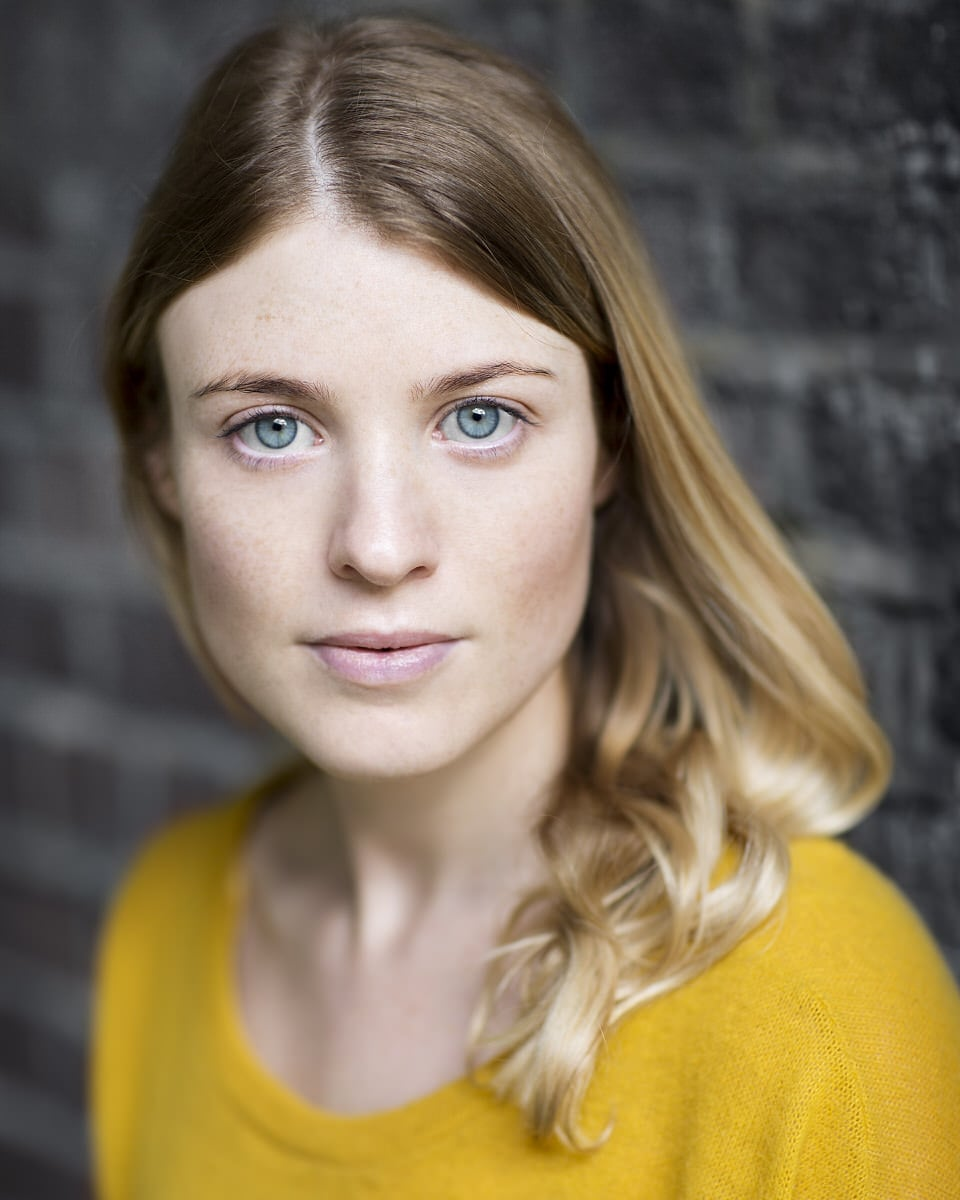
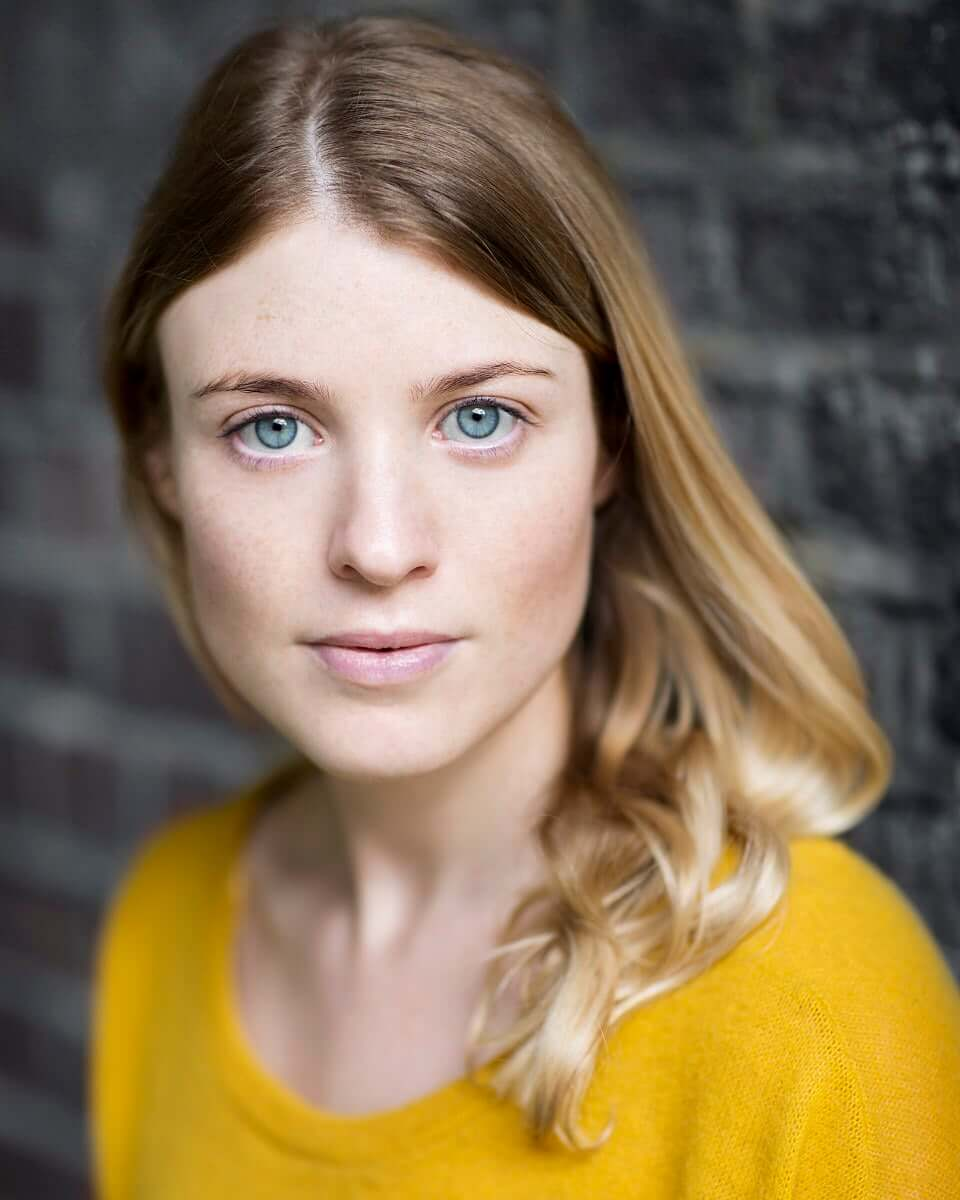
add audible link, recompress images with tinypng

Changed region(s): [[0.0938, 0.7092, 1.0, 1.0]]

diff --git a/public/index.html b/public/index.html
@@ -22,7 +22,10 @@
     <noscript
       ><link rel="stylesheet" href="assets/css/noscript.css"
     /></noscript>
-    <script src="https://use.fontawesome.com/811bd752ed.js"></script>
+    <script
+      src="https://kit.fontawesome.com/9217cd0adb.js"
+      crossorigin="anonymous"
+    ></script>
   </head>
   <body class="is-loading-0 is-loading-1 is-loading-2">
     <!-- Main -->
@@ -32,6 +35,14 @@
         <h1>Olivia Beardsley</h1>
         <p>Actor / Voice Artist / Singer</p>
         <ul class="icons">
+          <li>
+            <a
+              href="https://www.amazon.co.uk/s?k=Olivia+Beardsley&i=audible&ref=adbl_dp_pd_narr"
+              title="Audio books on Audible"
+              class="icon fa-audible"
+              ><span class="label">Audible</span></a
+            >
+          </li>
           <li>
             <a
               href="https://twitter.com/olliebeardsley"
@@ -155,6 +166,9 @@
       <footer id="footer">
         <ul class="copyright">
           <li>&copy; Olivia Beardsley</li>
+          <li>
+            <a href="https://showcase2020.co.uk">Check out Showcase 2020</a>
+          </li>
         </ul>
       </footer>
     </div>
